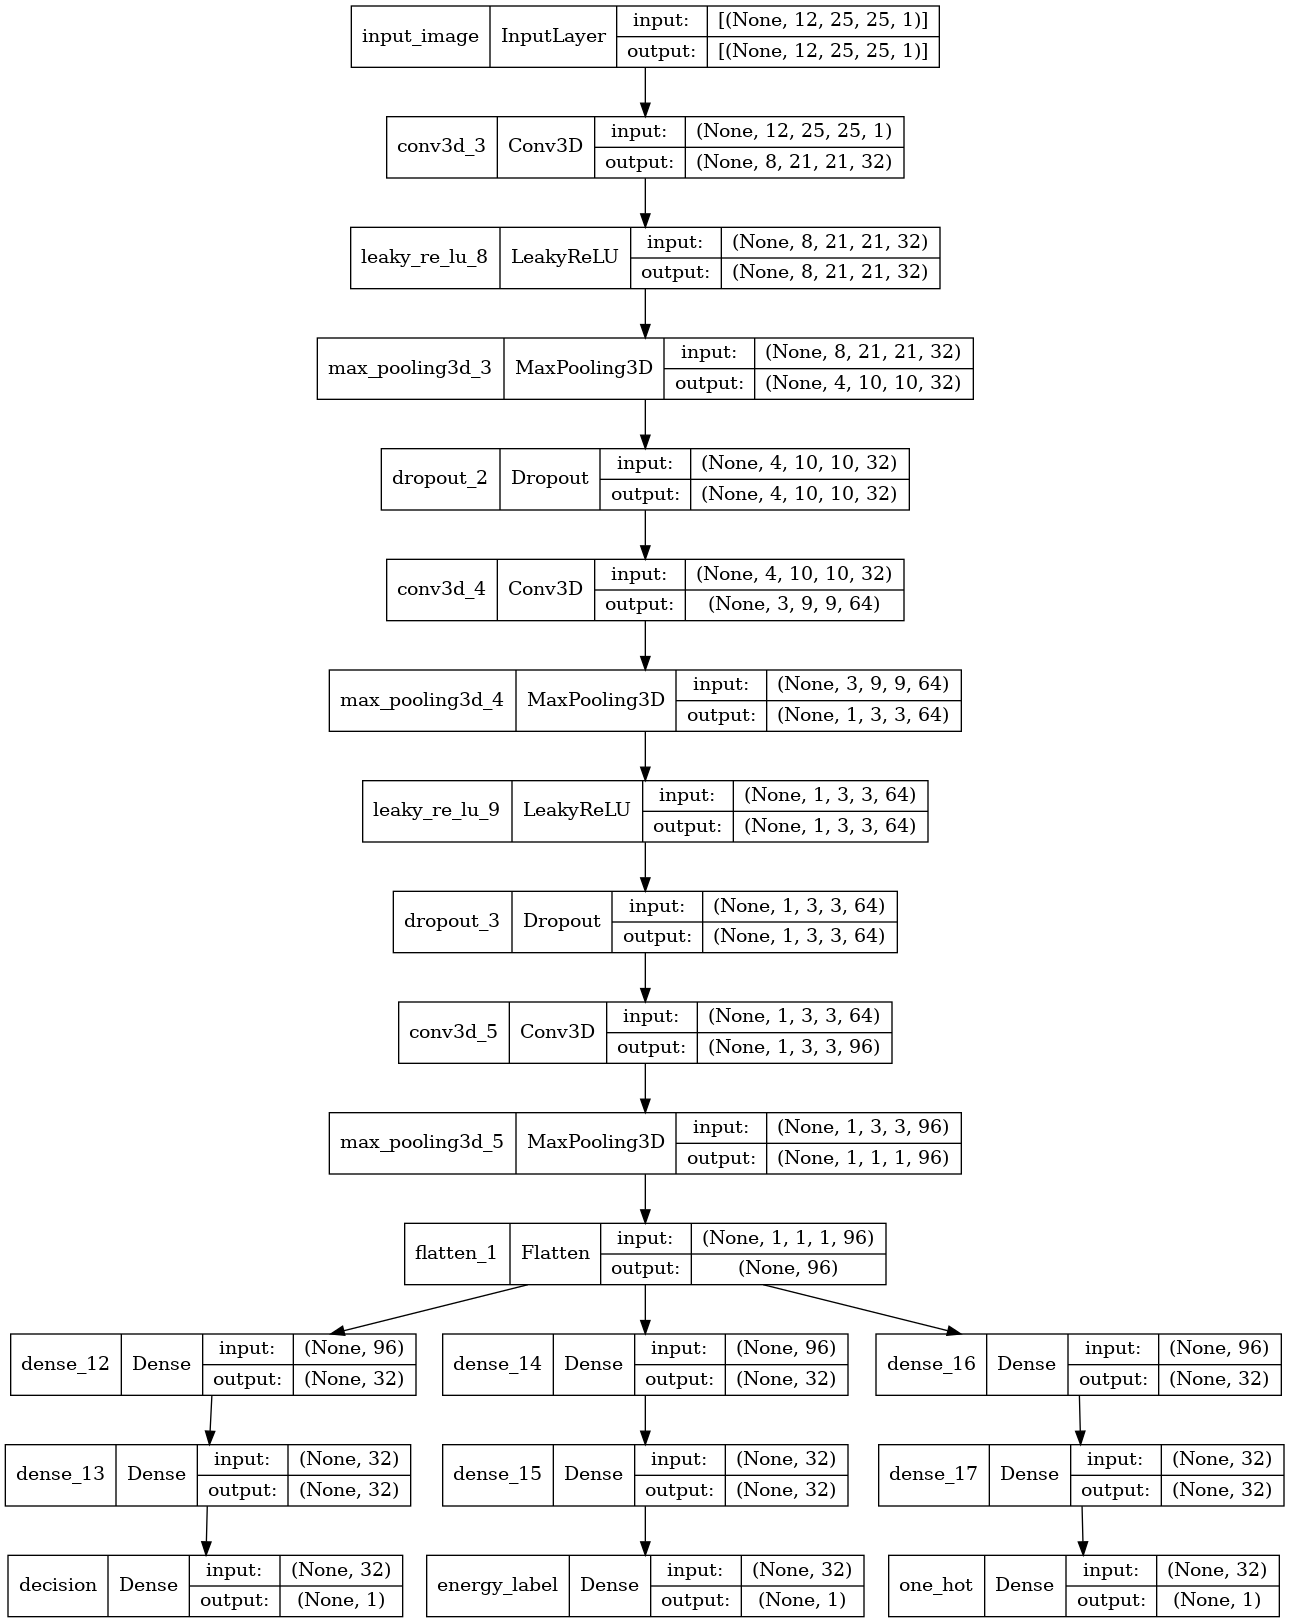
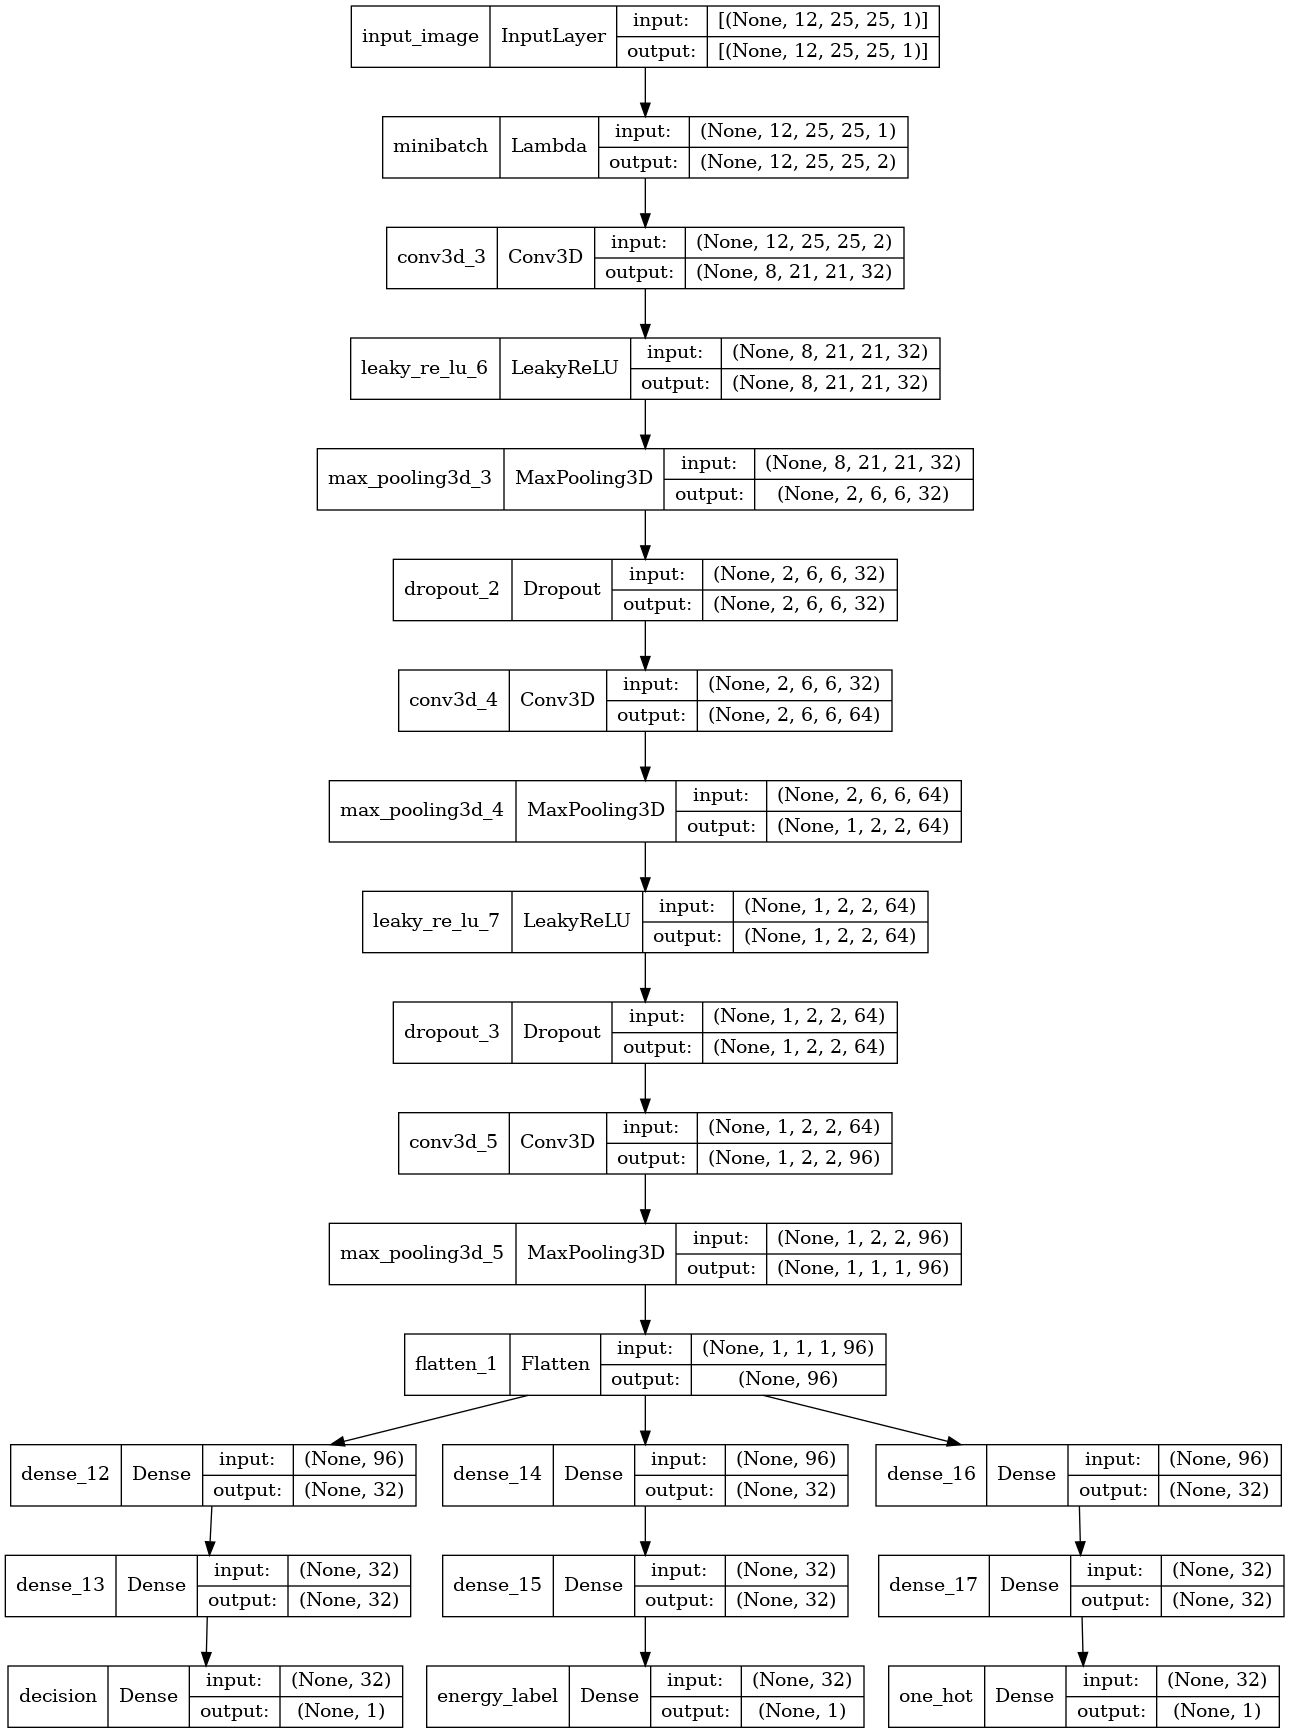
moved minibatch in medium layers, added assertion errors in losses

Changed region(s): [[0.0, 0.0, 0.993, 1.0], [0.2793, 0.0, 0.3724, 0.0308]]

diff --git a/EM_shower_simulator/class_GAN.py b/EM_shower_simulator/class_GAN.py
@@ -4,6 +4,7 @@
 # https://machinelearningmastery.com/how-to-develop-a-conditional-generative-adversarial-network-from-scratch/
 # https://keras.io/examples/generative/conditional_gan/
 
+import sys
 import os
 import time
 import logging
@@ -325,7 +326,7 @@ class ConditionalGAN(tf.keras.Model):
             real_output = self.discriminator(real_images, training=True)
             # print("*************************************************************")
             # print("\nGENERATED IMAGES")
-            print(generated_images)
+            # print(generated_images)
             fake_output = self.discriminator(generated_images, training=True)
             # print("*************************************************************")
 
@@ -340,6 +341,22 @@ class ConditionalGAN(tf.keras.Model):
 
             gener_total_loss = gener_loss + label_loss + fake_energ_loss + fake_parID_loss
             discr_total_loss = discr_loss + real_energ_loss + real_parID_loss
+
+            if np.isnan(label_loss):
+                print(generated_images)
+                raise AssertionError("ERROR IN COMPUTING LABEL LOSS: NAN VALUE")
+            elif np.isnan(fake_energ_loss):
+                raise AssertionError("ERROR IN COMPUTING FAKE ENERG LOSS: NAN VALUE")
+            elif np.isnan(real_energ_loss):
+                raise AssertionError("ERROR IN COMPUTING REAL ENERG LOSS: NAN VALUE")
+            elif np.isnan(fake_parID_loss):
+                raise AssertionError("ERROR IN COMPUTING FAKE PARID LOSS: NAN VALUE")
+            elif np.isnan(real_parID_loss):
+                raise AssertionError("ERROR IN COMPUTING REAL PARID LOSS: NAN VALUE")
+            elif np.isnan(gener_loss):
+                raise AssertionError("ERROR IN COMPUTING GENER LOSS: NAN VALUE")
+            elif np.isnan(discr_loss) :
+                raise AssertionError("ERROR IN COMPUTING DISCR LOSS: NAN VALUE")
 
         grad_generator = gen_tape.gradient(gener_total_loss,
                                         self.generator.trainable_variables)
@@ -357,6 +374,21 @@ class ConditionalGAN(tf.keras.Model):
         self.energ_loss_tracker.update_state(real_energ_loss)
         self.parID_loss_tracker.update_state(real_parID_loss)
         self.label_loss_tracker.update_state(label_loss)
+
+        if np.isnan(label_loss):
+            raise AssertionError("ERROR IN MINIMIZATION LABEL LOSS: NAN VALUE")
+        elif np.isnan(fake_energ_loss):
+            raise AssertionError("ERROR IN MINIMIZATION FAKE ENERG LOSS: NAN VALUE")
+        elif np.isnan(real_energ_loss):
+            raise AssertionError("ERROR IN MINIMIZATION REAL ENERG LOSS: NAN VALUE")
+        elif np.isnan(fake_parID_loss):
+            raise AssertionError("ERROR IN MINIMIZATION FAKE PARID LOSS: NAN VALUE")
+        elif np.isnan(real_parID_loss):
+            raise AssertionError("ERROR IN MINIMIZATION REAL PARID LOSS: NAN VALUE")
+        elif np.isnan(gener_loss):
+            raise AssertionError("ERROR IN MINIMIZATION GENER LOSS: NAN VALUE")
+        elif np.isnan(discr_loss) :
+            raise AssertionError("ERROR IN MINIMIZATION DISCR LOSS: NAN VALUE")
 
         return{
             "gener_loss": self.gener_loss_tracker.result(),
@@ -420,7 +452,11 @@ class ConditionalGAN(tf.keras.Model):
            # Start iterate on batches
            start = time.time()
            for index, image_batch in enumerate(dataset):
-              logs = self.train_step(image_batch)
+              try:
+                  logs = self.train_step(image_batch)
+              except AssertionError as error:
+                  print(f"Epoch {epoch}, batch {index}: {error}")
+                  sys.exit()
               progbar.update(index, zip(logs.keys(), logs.values()))
            end = time.time() - start
 

diff --git a/EM_shower_simulator/make_models_D.py b/EM_shower_simulator/make_models_D.py
@@ -86,8 +86,8 @@ def make_generator_model():
     # Image generator input
     in_lat = Input(shape=(NOISE_DIM,), name="latent_input")
     gen = Dense(n_nodes, use_bias=False)(in_lat)
-    #gen = BatchNormalization()(gen)
-    #gen = LeakyReLU(alpha=0.2)(gen)
+    gen = BatchNormalization()(gen)
+    gen = LeakyReLU(alpha=0.2)(gen)
     gen = Reshape(image_shape)(gen)
 
     # Merge image gen and label input
@@ -109,7 +109,7 @@ def make_generator_model():
     logger.info(f"Shape of the generator output: {output.get_shape()}")
     assert output.get_shape().as_list()==[None, *GEOMETRY], error
 
-    print(output)
+    # print(output)
 
     model = Model([in_lat, en_label, pid_label], output, name='generator')
     return model
@@ -171,7 +171,7 @@ def minibatch_stddev_layer(discr, group_size=MBSTD_GROUP_SIZE):
         # Cast to FP32.
         minib = tf.cast(minib, tf.float32)
         # Calculate the std deviation for each pixel over minibatch
-        minib = tf.math.reduce_std(minib, axis=0)
+        minib = tf.math.reduce_std(minib + 1E-6, axis=0)
         # print(f"STD DEVIATION \n{minib}")
         # Take average over fmaps and pixels.
         minib = tf.reduce_mean(minib, axis=[2,3,4], keepdims=True)
@@ -225,16 +225,19 @@ def make_discriminator_model():
     # Image input
     in_image = Input(shape=GEOMETRY, name="input_image")
 
-    minibatch = Lambda(minibatch_stddev_layer, name="minibatch")(in_image)
-    logger.info(f"Minibatch shape: {minibatch.get_shape()}")
+    # minibatch = Lambda(minibatch_stddev_layer, name="minibatch")(in_image)
+    # logger.info(f"Minibatch shape: {minibatch.get_shape()}")
 
-    discr = Conv3D(N_FILTER, KERNEL, use_bias=False)(minibatch)#in_image
+    discr = Conv3D(N_FILTER, KERNEL, use_bias=False)(in_image)#in_image
     logger.info(discr.get_shape())
     discr = LeakyReLU()(discr)
     discr = MaxPooling3D(pool_size = (4,4,4), padding ="same")(discr)
     discr = Dropout(0.3)(discr)
 
-    discr = Conv3D(2*N_FILTER, (2,2,2) , padding="same", use_bias=False)(discr)
+    minibatch = Lambda(minibatch_stddev_layer, name="minibatch")(discr)
+    logger.info(f"Minibatch shape: {minibatch.get_shape()}")
+
+    discr = Conv3D(2*N_FILTER, (2,2,2) , padding="same", use_bias=False)(minibatch)
     discr = MaxPooling3D(pool_size = (2,3,3) , padding ="same")(discr)
     logger.info(discr.get_shape())
     discr = LeakyReLU()(discr)
